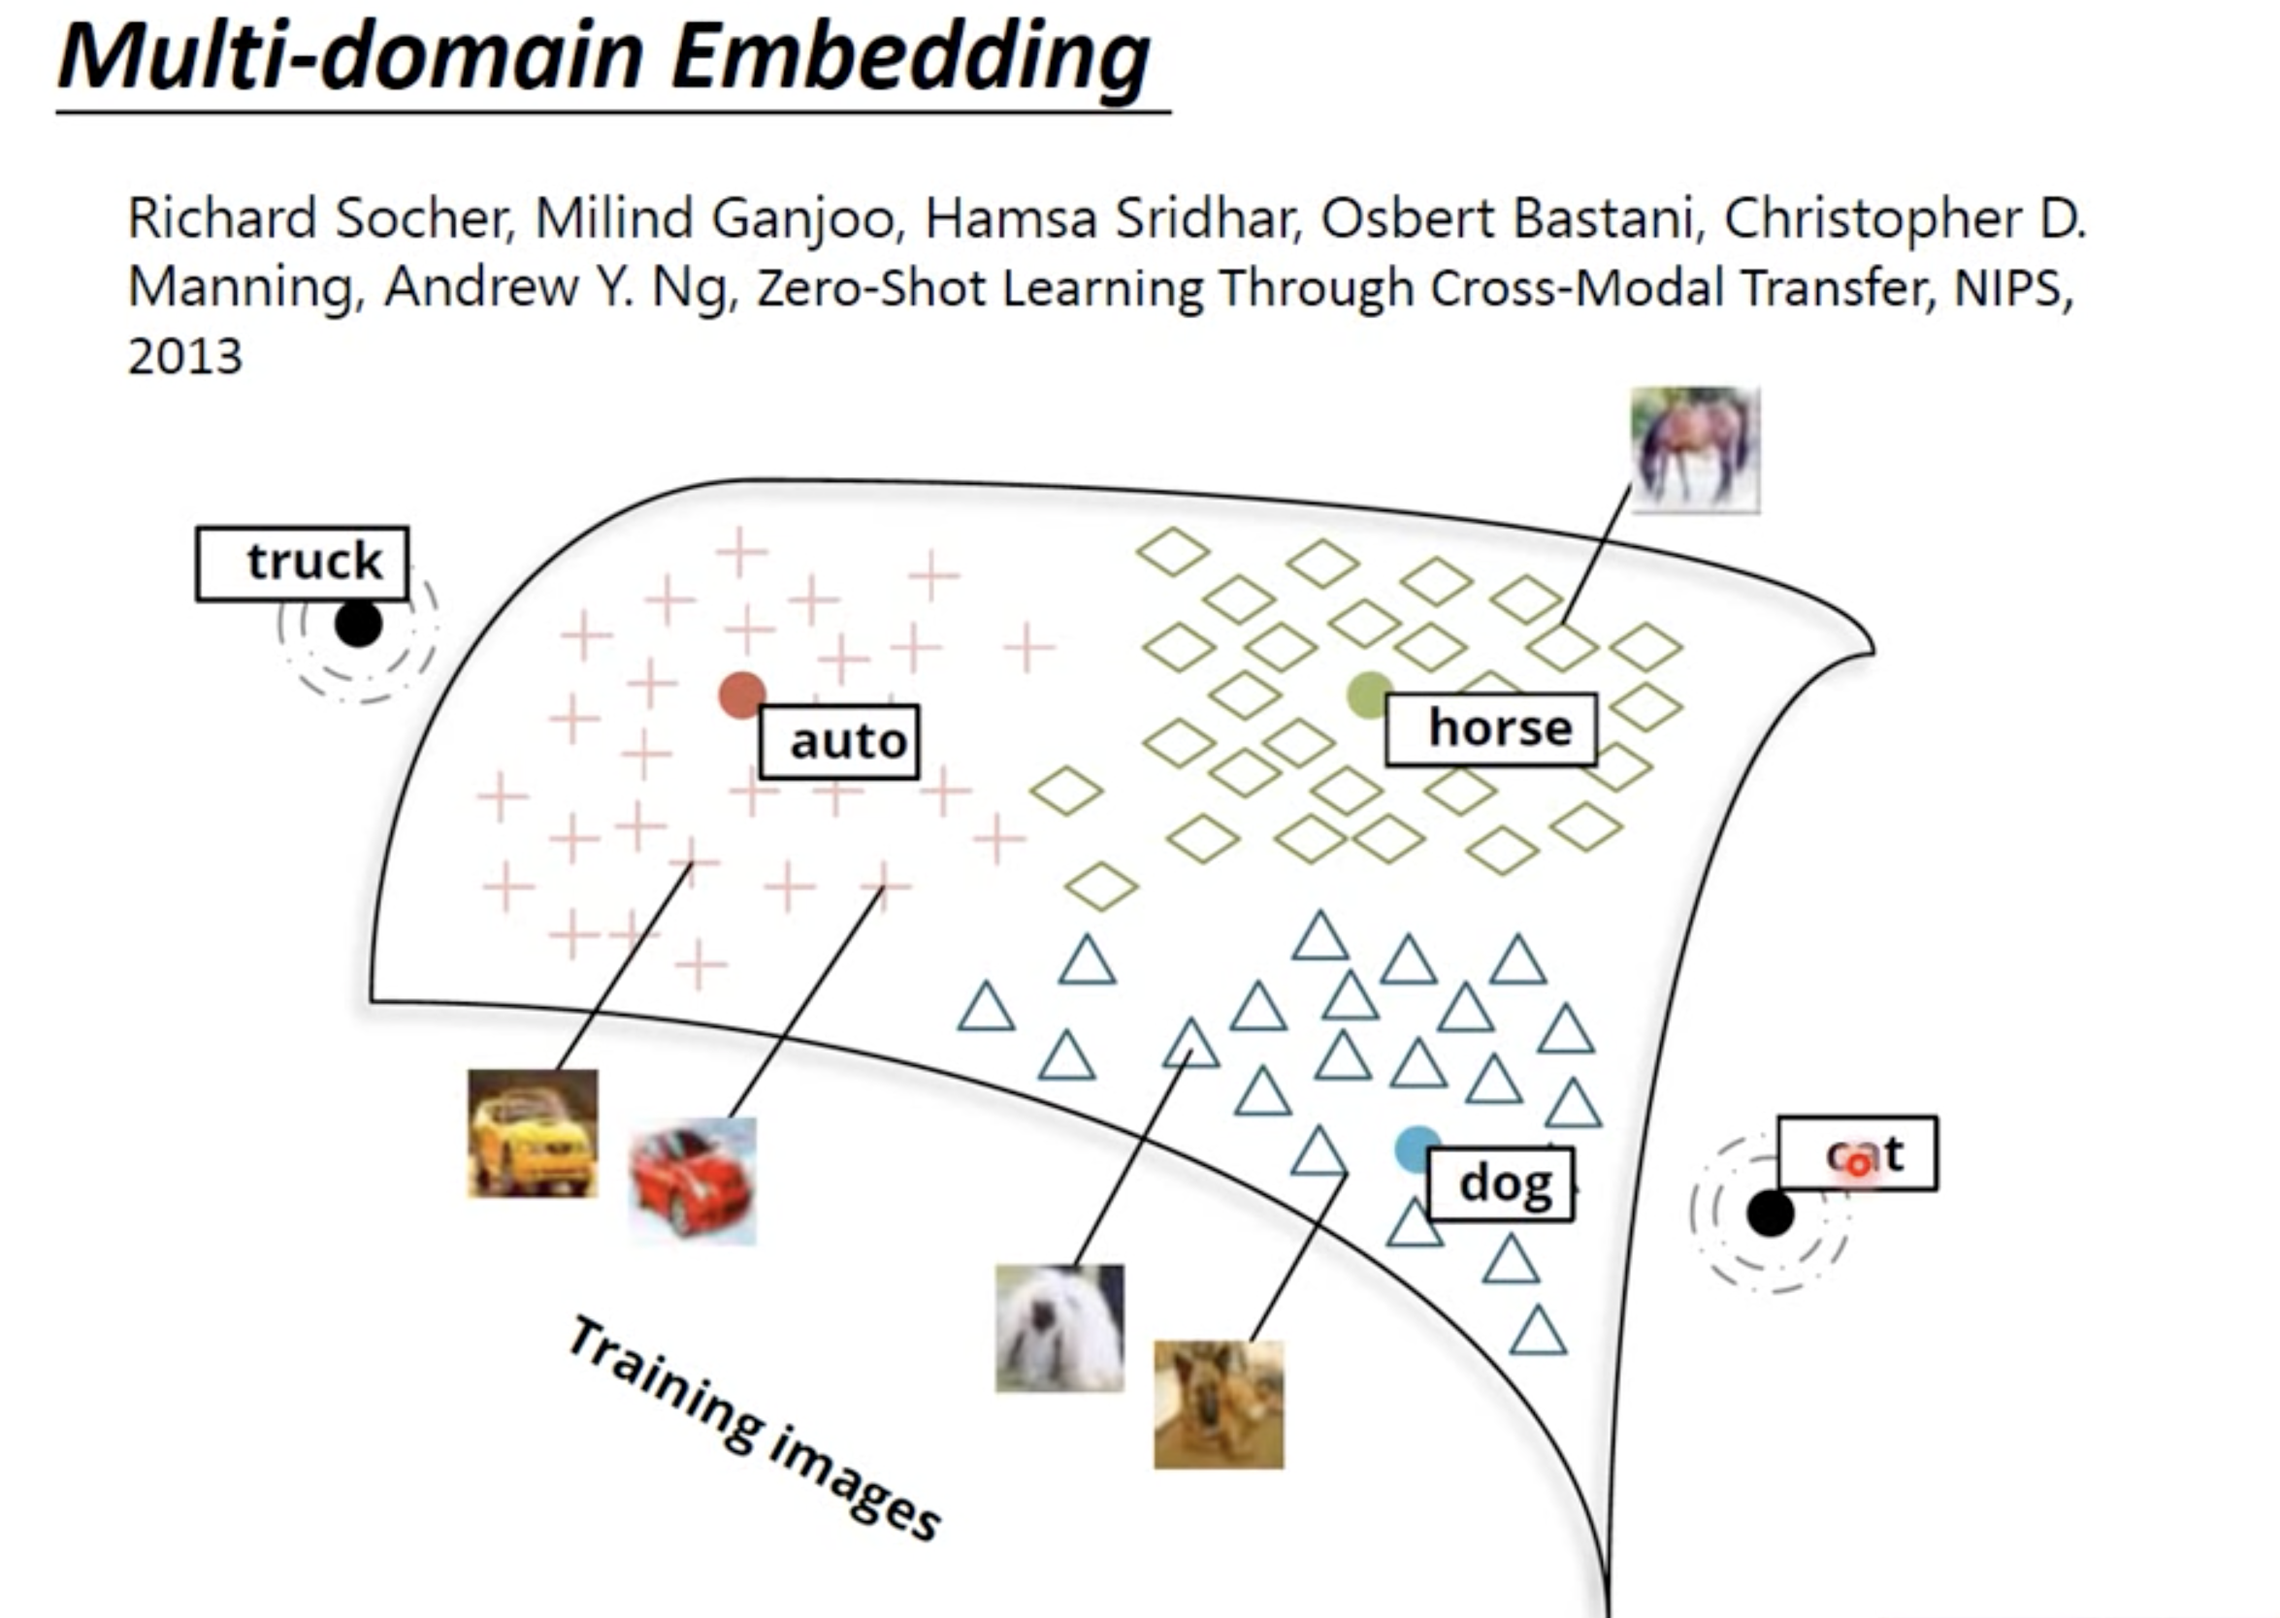
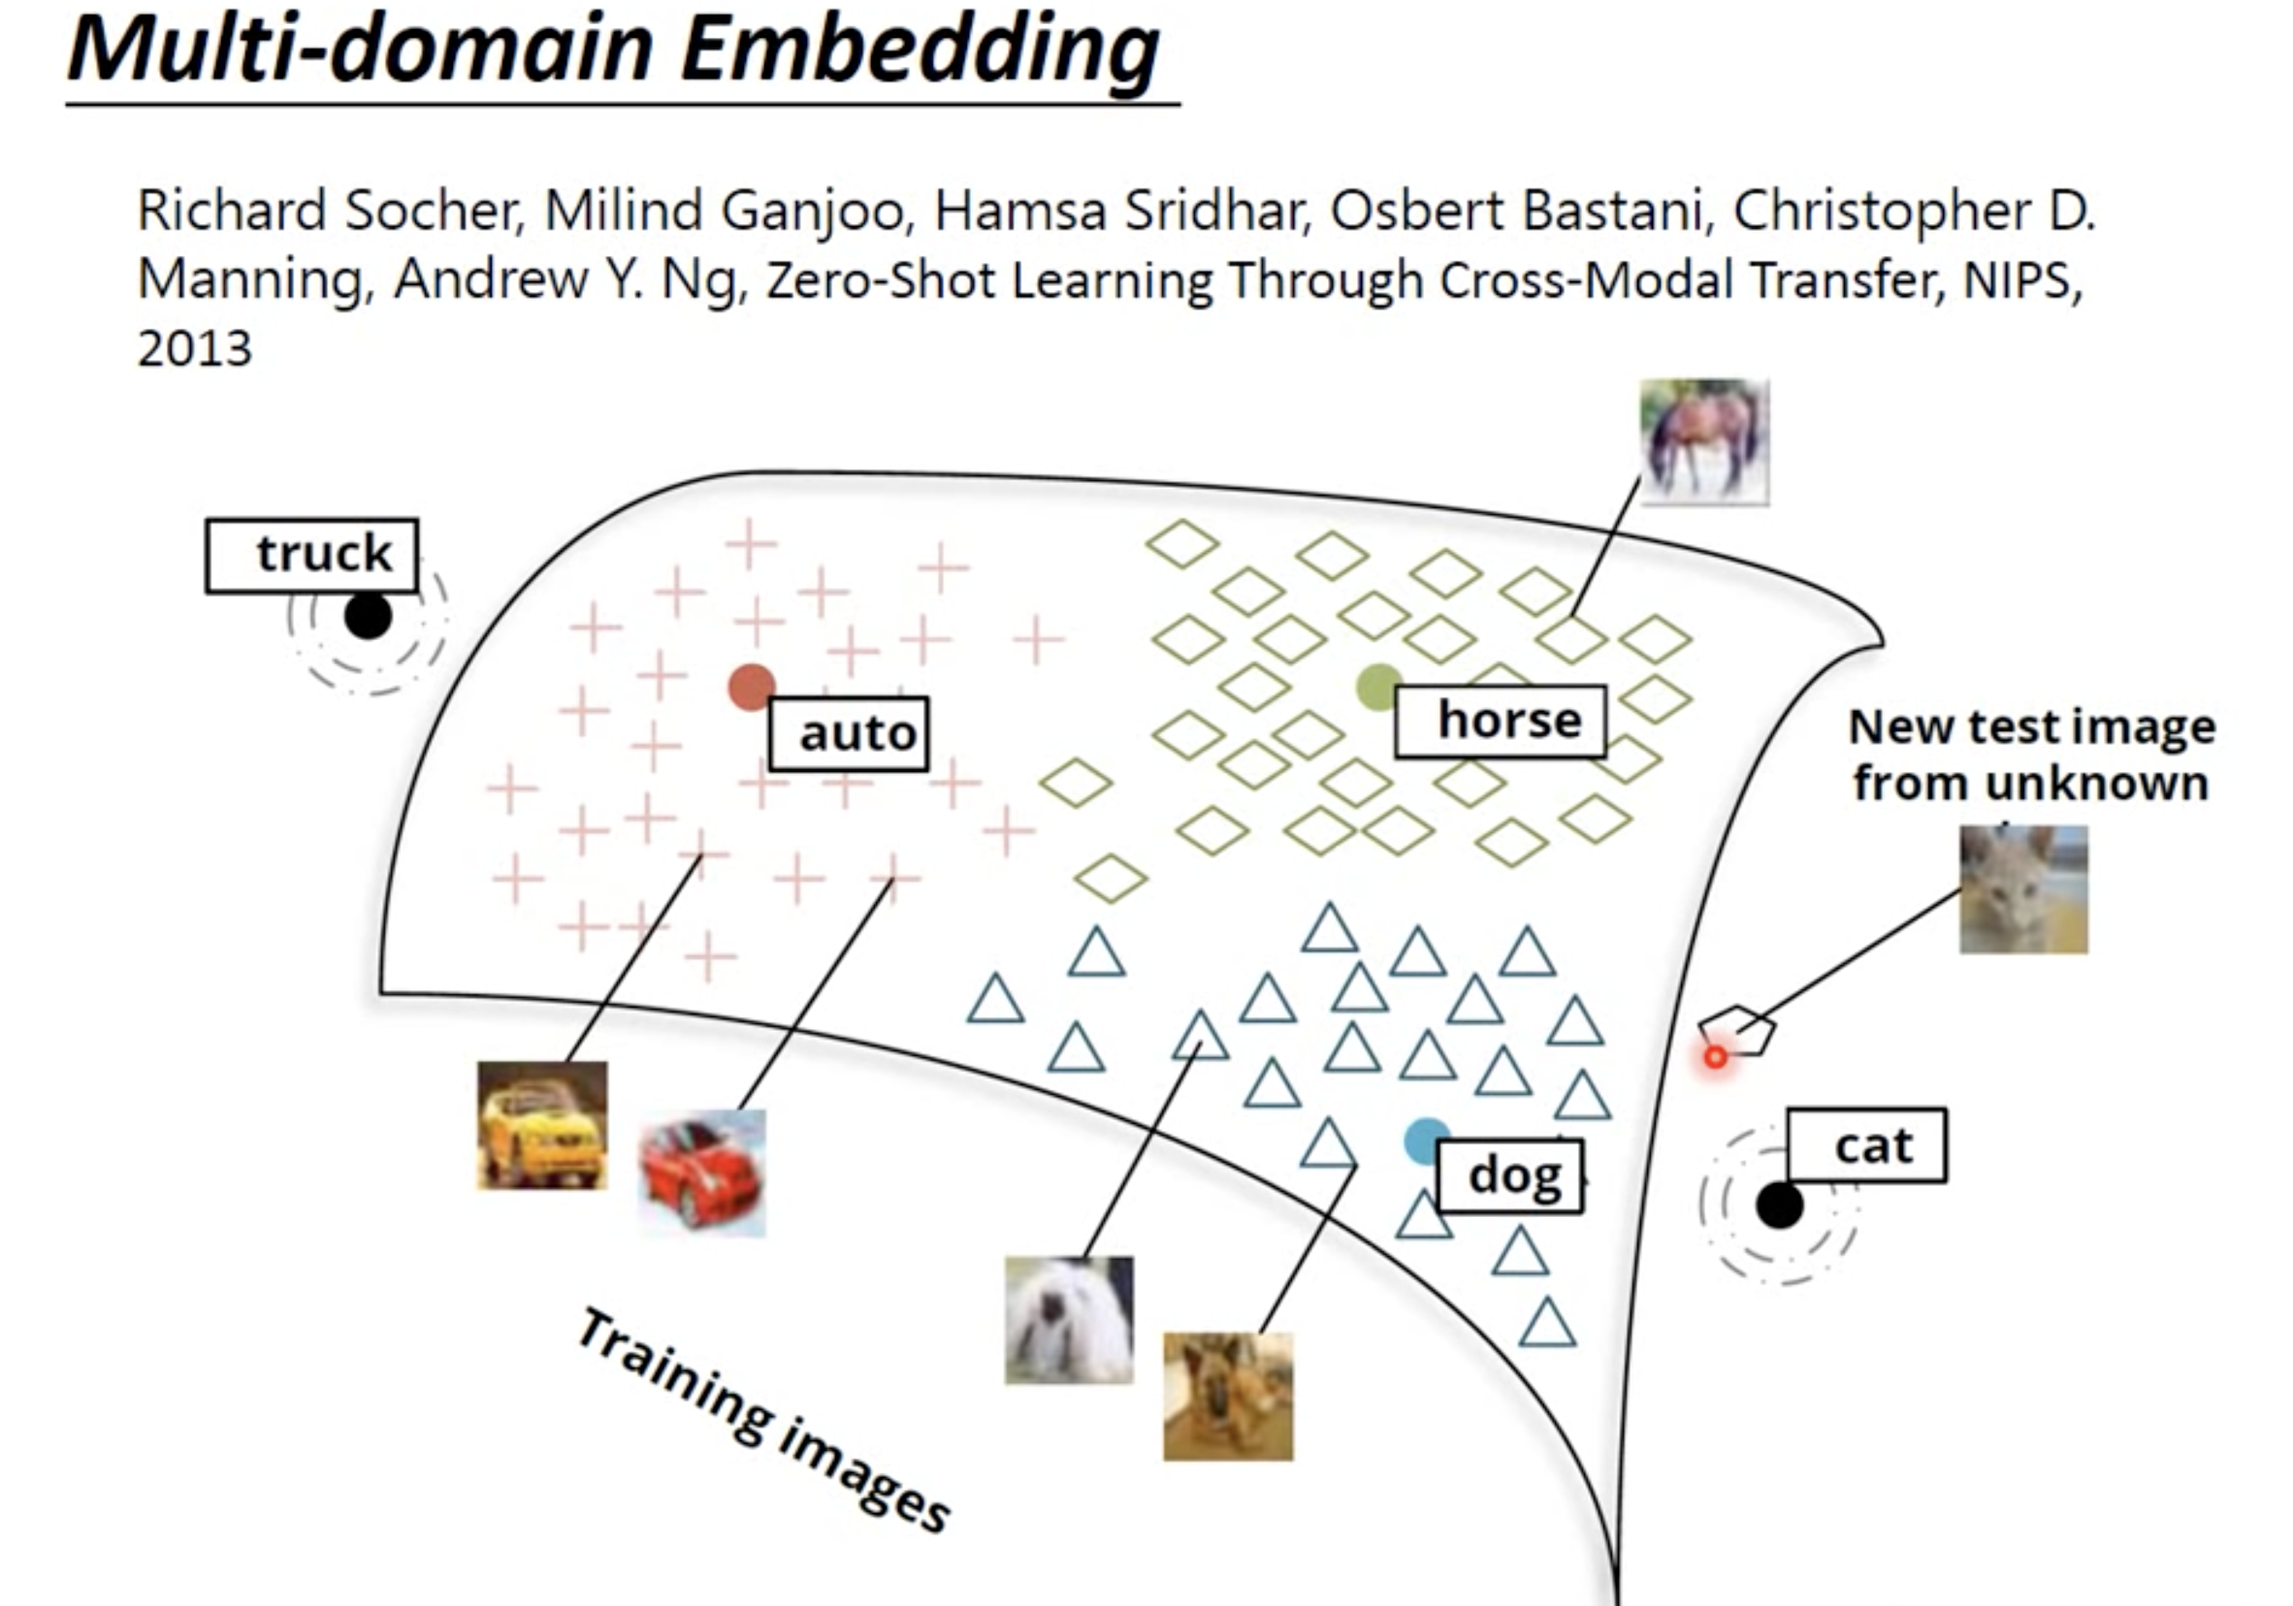
lecture 14 ok

diff --git a/_posts/2021-08-26-HYL_ML_14_word_embedding.md b/_posts/2021-08-26-HYL_ML_14_word_embedding.md
@@ -62,15 +62,6 @@ or predicting the context given a word as the skip-gram model.
 As high dimensional vectors, word embedding can handle the complex relationships between the words. Moreover, we can find semantic meanings in the arithmetic of the vectors, e.g.
 
 ![semantics](https://baliuzeger.github.io/sjl/assets/images/HYL_ML_14/semantic.png)
- 
-### Multi-Lingual / Multi-Domain Embedding
-
-We can make embedding for difference sources first, and then train a function to transform vectors from one source to tje vectors from another. Finally, we can use the result to perform translation between languages or mapping images to words. By such approaches, we can even handle data of classees that we've never had.
-
-![multi-lingual embedding](https://baliuzeger.github.io/sjl/assets/images/HYL_ML_14/multi-lingual.png)
-
-![multi-domain embedding](https://baliuzeger.github.io/sjl/assets/images/HYL_ML_14/multi-domain.png)
-
 
 ### Discussion
 
@@ -83,6 +74,25 @@ The neural network for generating the word vector has only 1 hidden layer, it's 
 
 (My conjecture) If the 1st hidden layer don't sum the word vectors as 1 vector but keep the word vectors independently for processing of the later layers, would it better handles the sequential relationships of the words?
 
+## Multi-Lingual / Multi-Domain Embedding
+
+We can make embedding for difference sources first, and then train a function to transform vectors from one source to tje vectors from another. Finally, we can use the result to perform translation between languages or mapping images to words. By such approaches, we can even handle data of classees that we've never had.
+
+![multi-lingual embedding](https://baliuzeger.github.io/sjl/assets/images/HYL_ML_14/multi-lingual.png)
+
+![multi-domain embedding](https://baliuzeger.github.io/sjl/assets/images/HYL_ML_14/multi-domain.png)
+
+## Document Embedding
+
+By document embedding, we transform word sequences with different lengths to vectors with the same length, while the vectors represent the meaning of the word sequences. For example, the bag-of-world approach
+
+![bag-of-word](https://baliuzeger.github.io/sjl/assets/images/HYL_ML_14/bag-of-word.png)
+
+while in the bag-of-world approach, the order of the words is not considered, and the meaning of sentences can be completely different by different order. There are more approaches:
+
+![beyond-bag-of-word](https://baliuzeger.github.io/sjl/assets/images/HYL_ML_14/beyond-bag-of-word.png)
+
+paragraph vector, seq2seq, skip through are unsupervised, and the others have some usage of labelled data.
 
 ## References
 
